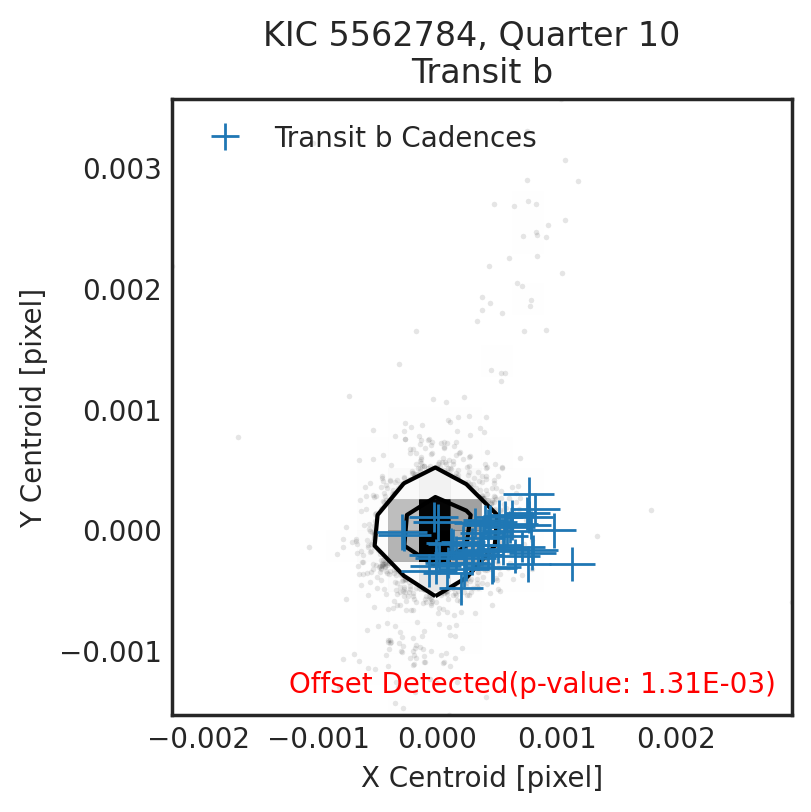
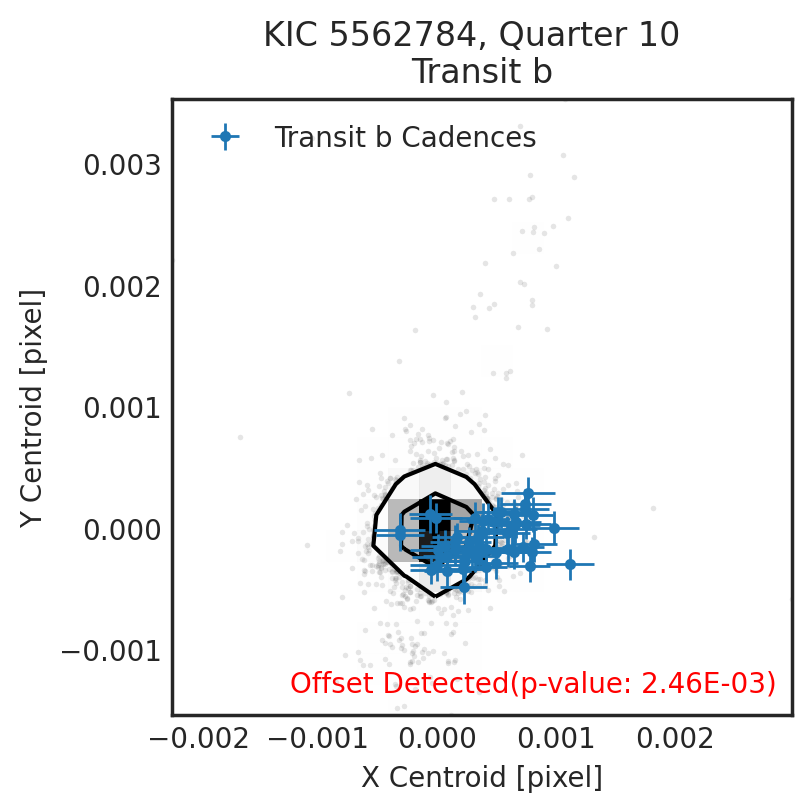
:zap: Added labels keyword

diff --git a/src/vetting/centroiding.py b/src/vetting/centroiding.py
@@ -35,6 +35,7 @@ def centroid_test(
     plot=True,
     nsamp=100,
     transit_depths=None,
+    labels=None,
 ):
     """
     Runs a simple centroiding test on TPFs for input period, t0 and durations of transiting planet candidates.
@@ -72,6 +73,9 @@ def centroid_test(
             Number of samples to make when testing (default 50)
         transit_depths: None, List of floats
             Optional. If given, will calculate the separation at which contaminants can be ruled out. Must be between 0 and 1.
+        labels: None, list of strings, string
+            Optional. Label for each planet in plots. If None, will generate labels in sequential order. e.g. pass `'bcd'` to label
+            planets. Must same length as periods.
     Returns
     -------
         r : dict
@@ -93,10 +97,18 @@ def centroid_test(
         if not hasattr(transit_depths, "__iter__"):
             transit_depths = [transit_depths]
         if not len(transit_depths) == len(periods):
-            raise ValueError("Please pass same length `transit_depth` as `period`")
+            raise ValueError("Please pass same length `transit_depth` as `periods`")
         for transit_depth in transit_depths:
             if (transit_depth < 0) | (transit_depth > 1):
                 raise ValueError("`transit_depth` must be > 0 and < 1. ")
+
+    if labels is not None:
+        if not hasattr(labels, "__iter__"):
+            labels = [labels]
+        if not len(labels) == len(periods):
+            raise ValueError("Please pass same length `labels` as `periods`")
+    else:
+        labels = "bcdefghijklmnopqrstu"
 
     nplanets = len(periods)
     r = {}
@@ -219,7 +231,7 @@ def centroid_test(
                 )
                 if not hasattr(axs, "__iter__"):
                     axs = [axs]
-        letter = "bcdefghijklmnopqrstu"
+
         pvalues, sigma1, centroid_offset_detected = [], [], []
         for idx in range(nplanets):
             # NO Transits
@@ -230,12 +242,12 @@ def centroid_test(
                 if transit_depths is not None:
                     scale = pixel_scale / transit_depths[idx]
                     axs[idx].set(
-                        xlabel='X Centroid ["]', title=f"Transit {letter[idx]}"
+                        xlabel='X Centroid ["]', title=f"Transit {labels[idx]}"
                     )
                 else:
                     scale = 1
                     axs[idx].set(
-                        xlabel="X Centroid [pixel]", title=f"Transit {letter[idx]}"
+                        xlabel="X Centroid [pixel]", title=f"Transit {labels[idx]}"
                     )
 
                 with plt.style.context("seaborn-white"):
@@ -249,10 +261,11 @@ def centroid_test(
                         (ycent[:, 0][k2] - ytr[k2]) * scale,
                         xerr=(xcent[:, 1][k2]) * scale,
                         yerr=(ycent[:, 1][k2]) * scale,
+                        marker=".",
                         c=f"C{idx}",
                         lw=1,
                         ls="",
-                        label=f"Transit {letter[idx]} Cadences",
+                        label=f"Transit {labels[idx]} Cadences",
                     )
                     axs[idx].legend(loc="upper left")
 

diff --git a/tests/test_centroids.py b/tests/test_centroids.py
@@ -59,3 +59,14 @@ def test_centroid_test():
     assert hasattr(r["1sigma_error"][0], "unit")
     assert r["1sigma_error"][0].value > 0
     assert r["1sigma_error"][0].value < 0.5
+
+    r = centroid_test(
+        tpf,
+        period,
+        t0,
+        dur,
+        aperture_mask="pipeline",
+        plot=True,
+        transit_depths=0.001499,
+        labels="c",
+    )

diff --git a/src/vetting/version.py b/src/vetting/version.py
@@ -1,3 +1,3 @@
 # It is important to store the version number in a separate file
 # so that we can read it from setup.py without importing the package
-__version__ = "0.1.4"
+__version__ = "0.1.5"
